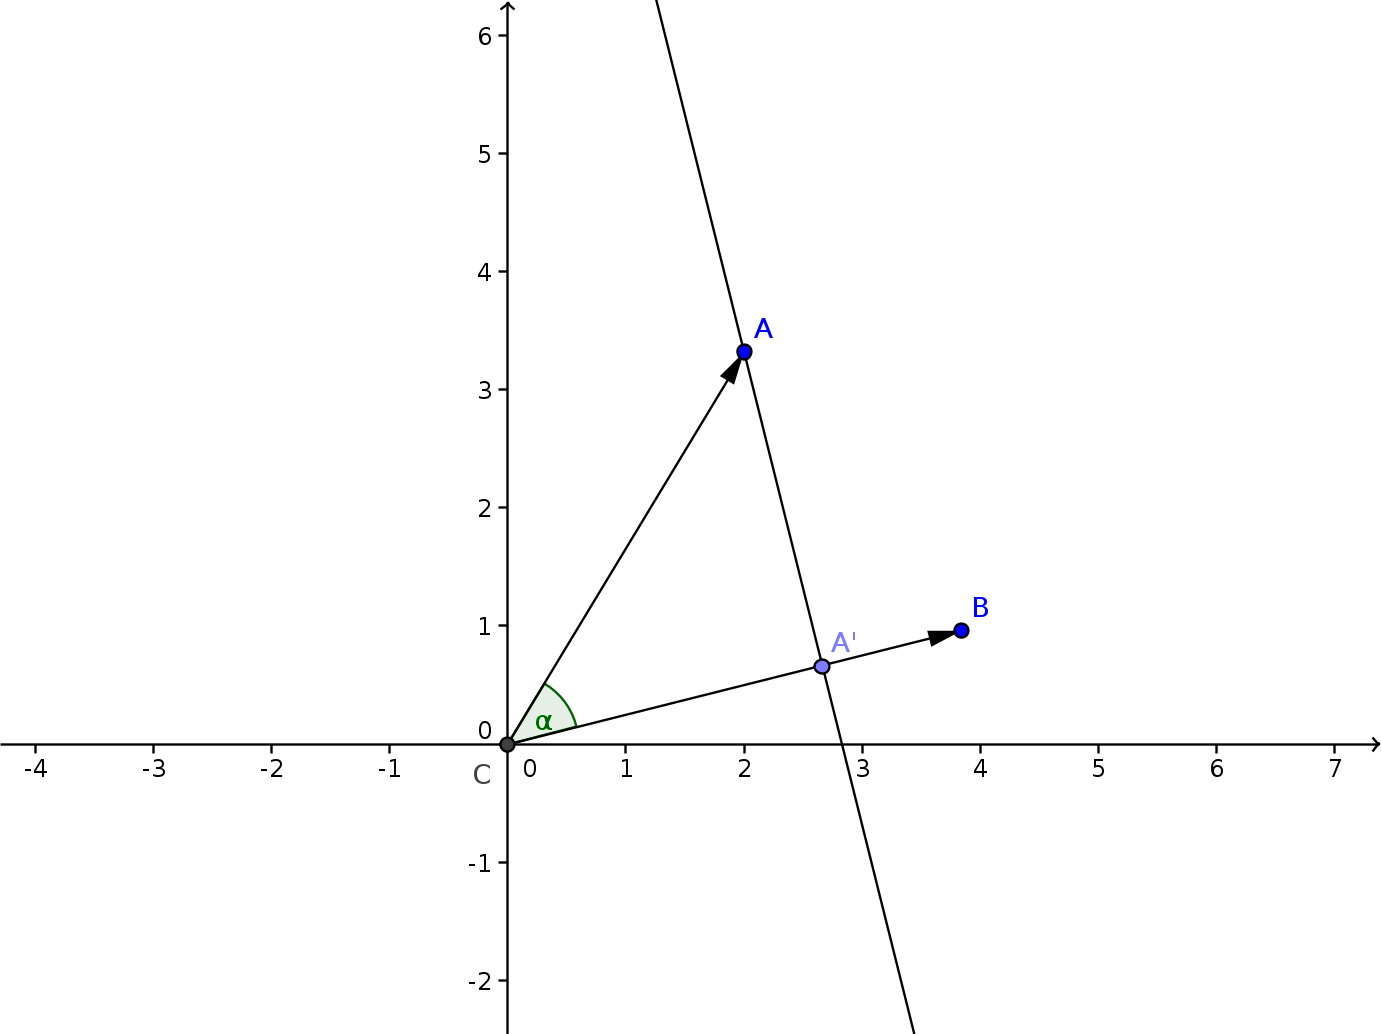
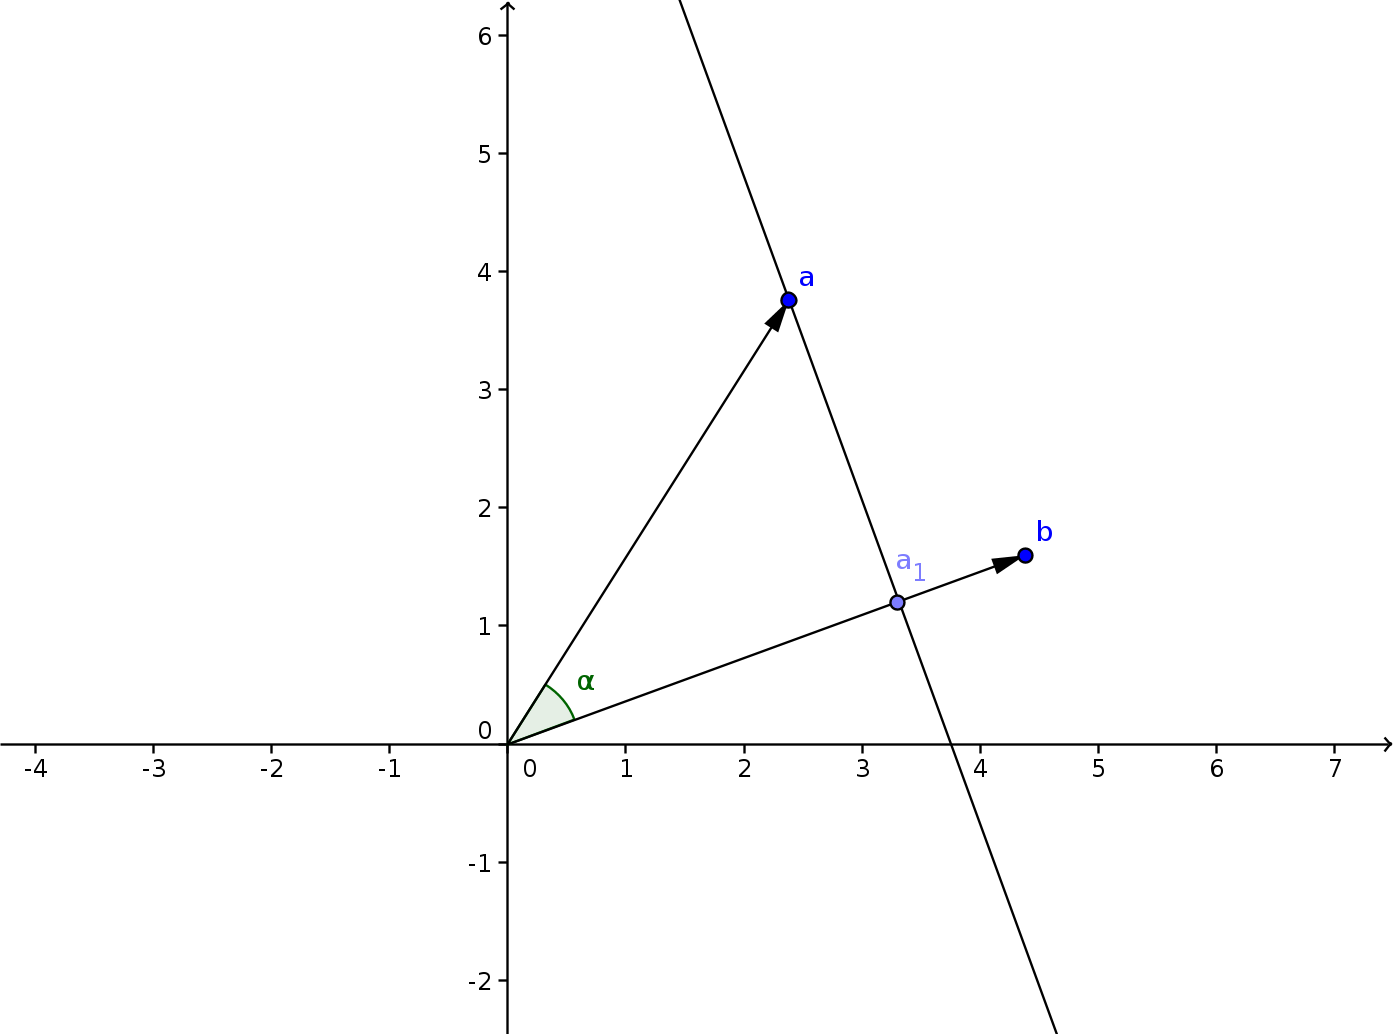
use a single notation style for everything

diff --git a/_math/3-vector-projection.md b/_math/3-vector-projection.md
@@ -16,57 +16,64 @@ Imagine for example a cart on a slope. Given a vector made from two points on th
 
 Or imagine for example a character jumping along an irregular polygon wall, when its collision circle collides with the wall, we can calculate the closest point to the wall by projecting the vector from one of the points on the wall to the circle's center onto the wall vector.
 
+Before we can project points onto lines, we first need to get a basic understanding of how a vector can be projected onto another vector
+
 ## Calculating the projection of a vector onto another vector
 
-If we look at the picture below, we see $$A'$$ which is the projection of the vector $$\overrightarrow{CA}$$ or $$\hat{a}$$ onto $$\overrightarrow{CB}$$ or $$\hat{b}$$. The goal is to calculate $$A'$$ in terms of $$\hat{a}$$ and $$\hat{b}$$.
+If we look at the picture below, we see $$\vec{a_1}$$ which is the projection of the vector $$\vec{a}$$ onto $$\vec{b}$$. The goal is to calculate $$\vec{a_1}$$ in terms of $$\vec{a}$$ and $$\vec{b}$$.
 
 ![proj_unrotated](/assets/proj_unrotated.png)
 
-To make this task easier, or at least more intuitive, we are going to rotate this setup. Let's arrange the vector $$\hat{b}$$ so that it is parallel with the x-axis.
+To make this task easier, or at least more intuitive, we are going to rotate this setup. Let's arrange the vector $$\vec{b}$$ so that it is parallel with the x-axis.
 
 ![proj_unscaled_equal](/assets/proj_unscaled_equal.png)
 
-If we look at point $$A'$$ now, we see that $$A'=(x, 0)$$ if $$A=(x,y)$$. Now let's scale our setup, so that $$A$$ is lying on the unit circle, a circle with as radius 1. In this case we see that $$x$$ is equal to the cosine of $$\alpha$$.
+If we look at the vector $$\vec{a}$$ now, we see that $$\vec{a_1}=\langle x, 0\rangle$$ if $$\vec{a}=\langle x,y\rangle$$. Now let's scale our setup, so that $$\vec{a}$$ is lying on the unit circle, a circle with as radius 1. In this case we see that $$x$$ is equal to the cosine of $$\alpha$$, which is the angle between $$\vec{a}$$ and $$\vec{b}$$.
 
 ![proj_cos](/assets/proj_cos.png)
 
 $$x=cos(\alpha)$$
 
-Of course in our second rotated but unscaled scenario, the vector $$\overrightarrow{CA}$$ doesn't necessarily have a length equal to 1. Both $$A$$ and $$A'$$ are scaled by the length of $$\overrightarrow{CA}$$. This means that to go back to the second scenario, have to multiply by the length of $$\overrightarrow{CA}$$ to correct the scale.
+Of course in our second rotated but unscaled scenario, the vector $$\vec{a}$$ doesn't necessarily have a length equal to 1. Both $$\vec{a}$$ and $$\vec{a_1}$$ are scaled by the length of $$\vec{a}$$. This means that to go back to the second scenario, have to multiply by the length of $$\vec{a}$$ to correct the scale.
 
-$$x=\lvert\overrightarrow{CA}\lvert cos(\alpha)=\lvert \hat{a}\lvert cos(\alpha)\quad(1)$$
+$$x=\lvert\vec{a}\lvert cos(\alpha)\quad(1)$$
 
-We don't want $$\alpha$$ in our equation, as we want a solution with just the two vectors $$\hat{a}$$ and $$\hat{b}$$. We can use the dot product, since the cosine of an angle is equal to the dot product of the vectors that form the angle if the vectors are normalized
+As we stated before, we don't want the angle $$\alpha$$ in our equation, as we want a solution with just the two vectors $$\vec{a}$$ and $$\vec{b}$$. We can use the dot product, since the cosine of an angle is equal to the dot product of the vectors that form the angle if the vectors are normalized
 
 $$cos(\alpha)=\hat{a}.\hat{b}$$
 
-A normalized vector is one whose length is 1, thus it is obtained by dividing a vector by its length. Doing this with vectors a and b gives
+A normalized vector is one whose length is 1, thus it is obtained by dividing a vector by its length. Doing this with vectors $$\vec{a}$$ and $$\vec{b}$$ gives
 
-$$cos(\alpha)=\frac{a.b}{\lvert a\lvert\lvert b\lvert}\quad(2)$$
+$$cos(\alpha)=\frac{\vec{a}.\vec{b}}{\lvert \vec{a}\lvert\lvert \vec{b}\lvert}\quad(2)$$
 
 Substituting the cosine in (1) by (2) gives
 
-$$x=\lvert a\lvert\frac{a.b}{\lvert a\lvert\lvert b\lvert}$$
+$$x=\lvert \vec{a}\lvert\frac{\vec{a}.\vec{b}}{\lvert \vec{a}\lvert\lvert \vec{b}\lvert}$$
 
-Or simplified, since we can ignore multiplying and dividing by the same factor $$\lvert a\lvert$$
+Or simplified, since we can ignore multiplying and dividing by the same factor $$\lvert \vec{a}\lvert$$
 
-$$x=\frac{a.b}{\lvert b\lvert}$$
+$$x=\frac{\vec{a}.\vec{b}}{\lvert \vec{b}\lvert}$$
 
-Our projection of point $$A$$ in scenario 2 is thus point $$A'=(x,0)$$ or $$A'=x*(1,0)$$. 
+Our projection of vector $$\vec{a}$$ in scenario 2 is was the vector $$\vec{a_1}=\langle x,0\rangle$$ or $$\vec{a_1}=x*\langle 1,0\rangle$$, substituting $$x$$ gives
 
-$$A'=\frac{a.b}{\lvert b\lvert}(1, 0)$$
+$$\vec{a_1}=\frac{\vec{a}.\vec{b}}{\lvert \vec{b}\lvert}(1, 0)$$
 
-We chose $$\overrightarrow{CB}$$ to be parallel with the x-axis to clearly see that x was equal to the scaled cosine. But in our original scenario $$\overrightarrow{CB}$$ is not parallel to the x-axis. the only difference with scenario one and two is that we rotated everything. This rotation kept the sizes of the vectors as well as the angle between them intact. The only difference that affects the outcome is that $$b$$ is rotated. As we can see,the projected point $$A'$$ always lies somewhere along $$b$$. In scenario two, $$A'$$ only lies along the x-axis because b is parallel with it. The vector $$(1,0)$$ is nothing more than the normalized vector $$\hat{b}$$. Thus our projection of a on b in scenario one is
+We chose $$\vec{b}$$ to be parallel with the x-axis to clearly see that $$x$$ was equal to the scaled cosine. But in our original scenario $$\vec{b}$$ is not parallel to the x-axis. the only difference with scenario one and two is that we rotated everything. This rotation kept the sizes of the vectors as well as the angle between them intact. The only difference that affects the outcome is that $$\vec{b}$$ is rotated. As we can see, the projected point $$\vec{a_1}$$ always lies somewhere along $$\vec{b}$$. In scenario two, $$\vec{a_1}$$ only lies along the x-axis because $$\vec{b}$$ is parallel with it. The vector $$\langle 1,0\rangle$$ is nothing more than the normalized vector $$\hat{b}$$. Thus our projection of $$\vec{a}$$ on $$\vec{b}$$ in scenario one is
 
-$$proj(a,b)=\frac{a.b}{\lvert b\lvert}\hat{b}$$
+$$proj(\vec{a},\vec{b})=\frac{\vec{a}.\vec{b}}{\lvert \vec{b}\lvert}\hat{b}$$
 
-Since $$\hat{b}$$ is equal to $$b$$ divided by it's length $$\lvert b\lvert$$ we can write
+Since $$\hat{b}$$ is equal to $$\vec{b}$$ divided by it's length $$\lvert \vec{b}\lvert$$ we can write
 
-$$proj(a,b)=\frac{a.b}{ {\lvert b\lvert}^2}b$$
+$$proj(\vec{a},\vec{b})=\frac{\vec{a}.\vec{b}}{ {\lvert \vec{b}\lvert}^2}\vec{b}$$
 
-And since the length $$\lvert b\lvert$$ is the square root of the dot product of b with itself or $$\lvert b\lvert=\sqrt{b.b}$$ we get
+And since the length $$\lvert \vec{b}\lvert$$ is the square root of the dot product of $$\vec{b}$$ with itself or $$\lvert \vec{b}\lvert=\sqrt{\vec{b}.\vec{b}}$$ we get
 
-$$proj(a,b)=\frac{a.b}{b.b}b$$
+$$proj(\vec{a},\vec{b})=\frac{\vec{a}.\vec{b}}{\vec{b}.\vec{b}}\vec{b}$$
 
-So the projection of $$a$$ on $$b$$ is the dot product of $$a$$ and $$b$$ divided by the dot product of $$b$$ with itself multiplied with b.
+So the projection of $$\vec{a}$$ on $$\vec{b}$$ is the dot product of $$\vec{a}$$ and $$\vec{b}$$ divided by the dot product of $$\vec{b}$$ with itself multiplied with $$\vec{b}$$.
 
+{% highlight lua %}
+function project(x1, y1, x2, y2)
+    return mul(dot(x1, y1, x2, y2) / dot(x2, y2, x2, y2), x2, y2)
+end
+{% endhighlight %}

diff --git a/_math/2-angles.md b/_math/2-angles.md
@@ -4,7 +4,8 @@ title: Angles
 math: true
 ---
 
-[Previous - Points and Vectors](1-points-and-vectors.html)
+| : ---- : |
+| [Previous - Points and Vectors](1-points-and-vectors.html) | [Next - Vector projection](3-vector-projection.html) |
 
 # [Math for game development](../) : Angles
 
@@ -28,12 +29,12 @@ Some game engines use angles from 0 to 360 degrees or from 0 to 1 percent instea
 ### Angle to vector
 Lets look at some vectors and the angles they represent.
 
-| vector  | angle              |
-| ------- | ------------------ |
-| (1, 0)  | 0 or $$\pi$$       |
-| (0, 1)  | $$\frac{\pi}{2}$$  |
-| (-1, 0) | $$\pi$$            |
-| (0, -1) | $$\frac{3\pi}{2}$$ |
+| vector                   | angle              |
+| ------------------------ | ------------------ |
+| $$\langle 1, 0\rangle$$  | 0 or $$\pi$$       |
+| $$\langle 0, 1\rangle$$  | $$\frac{\pi}{2}$$  |
+| $$\langle -1, 0\rangle$$ | $$\pi$$            |
+| $$\langle 0, -1\rangle$$ | $$\frac{3\pi}{2}$$ |
 
 Unfortunately, there is no easy way to go from an angle to a direction and back. We need trigonometric functions to do this, which are rather slow compared to normal operations. To go from an angle to a direction vector, we use cosine and sine. These give the x and y of the normalized vector representing the direction.
 
@@ -126,7 +127,7 @@ end
 ## Rotation
 
 ### Rotation around the origin
-We will start by trying to rotate the normalized vector $$\vec{b}$$ by $$\alpha$$ radians. If we have the normalized vector $$\vec{b}$$ pointing in the direction of $$\beta$$ radians, it can be written as $$\vec{b}=(cos(\beta), sin(\beta))$$. Similarly, we can write the angle $$\alpha$$ as the normalized vector $$\vec{a} =(cos(\alpha), sin(\alpha))$$ pointing in the direction of $$\alpha$$. As we saw before, for normalized vectors, the cosine of the angle between two vectors was equal to the dot product of the two vectors, while the sine of the angle between two vectors was equal to the cross product. The angle between the vectors $$\vec{a}$$ and $$\vec{b}$$ is equal to $$\alpha-\beta$$, so we can write
+We will start by trying to rotate the normalized vector $$\vec{b}$$ by $$\alpha$$ radians. If we have the normalized vector $$\hat{b}$$ pointing in the direction of $$\beta$$ radians, it can be written as $$\hat{b}=(cos(\beta), sin(\beta))$$. Similarly, we can write the angle $$\alpha$$ as the normalized vector $$\hat{a} =(cos(\alpha), sin(\alpha))$$ pointing in the direction of $$\alpha$$. As we saw before, for normalized vectors, the cosine of the angle between two vectors was equal to the dot product of the two vectors, while the sine of the angle between two vectors was equal to the cross product. The angle between the vectors $$\hat{a}$$ and $$\hat{b}$$ is equal to $$\alpha-\beta$$, so we can write
 
 $$cos(\alpha-\beta)=cos(\beta)*cos(\alpha)+sin(\beta)*sin(\alpha)$$
 
@@ -201,9 +202,9 @@ $$x'=x*cos(\alpha)-y*sin(\alpha)$$
 
 $$y'=x*sin(\alpha)+y*cos(\alpha)$$
 
-We can replace the sine and cosine of $$\alpha$$ with the normalized vector $$v$$
+We can replace the sine and cosine of $$\alpha$$ with the normalized vector $$\hat{v}$$
 
-$$v=\langle cos(\alpha), sin(\alpha)\rangle$$
+$$\hat{v}=\langle cos(\alpha), sin(\alpha)\rangle$$
 
 giving
 
@@ -242,4 +243,5 @@ function followTarget(x, y, tx, ty, points)
 end
 {% endhighlight %}
 
-[Previous - Points and Vectors](1-points-and-vectors.html)
+| : ---- : |
+| [Previous - Points and Vectors](1-points-and-vectors.html) | [Next - Vector projection](3-vector-projection.html) |

diff --git a/_math/1-points-and-vectors.md b/_math/1-points-and-vectors.md
@@ -19,7 +19,7 @@ At this stage we can't move or rotate yet, but we can scale. Scaling a point or 
 $$(x',y') = s(x, y)=(s*x, s*y)$$
 
 {% highlight lua %}
-function mul(x, y, s)
+function mul(s, x, y)
     return x * s, y *s
 end
 {% endhighlight %}
@@ -42,14 +42,17 @@ end
 {% endhighlight %}
 
 **The point at the arrow of the vector should always come first.**
-Notice that calculating the vector from for example $$(0, 0)$$ to $$(1, 4)$$ or from $$(4, 5)$$ to $$(5, 9)$$ both give the vector $$\langle 1, 4\rangle$$. Because to move from any of the two origins towards their destination you need to move in the same direction, crossing the same distance. Adding the vector to its origin gives us the destination.
+Notice that calculating the vector from for example $$(0, 0)$$ to $$(1, 4)$$ or from $$(4, 5)$$ to $$(5, 9)$$ both give the vector $$\langle 1, 4\rangle$$. Because to move from any of the two origins towards their destination you need to move in the same direction, crossing the same distance.
+
+Adding the vector to its origin gives us the destination.
 
 $$a + \vec{ab}=b$$
 
-A vector can move or translate a point by a given distance in a given direction.
 This is quite logical
 
 $$a + \vec{ab} = a + (b - a)=a + b - a=b$$
+
+A vector can move or translate a point by a given distance in a given direction.
 
 {% highlight lua %}
 function add(x1, y1, x2, y2)
@@ -61,7 +64,7 @@ Since a point and a vector are so similar, should we really distinguish them? Es
 
 $$(x, y) - (0, 0) = \langle x, y\rangle$$
 
-Yes and no. In code, we almost never really distinguish the two. In the lua code, we use a plain pair of floats x and y for both, and in an object oriented framework we would just use a point or vector class, not both.
+Yes and no. In code, we almost never really distinguish the two. In our functional lua code, we use a plain pair of floats x and y for both, and in an object oriented framework we would just use a point or vector class, not both.
 
 However there is an important difference between them. A point defines a coordinate, a vector defines a direction and distance. When we transform points and vectors to a different coordinate system, points are translated, rotated and scaled. Vectors however are only ever rotated and scaled, never translated.
 
@@ -218,5 +221,9 @@ function cw(x, y)
     return y, -x
 end
 {% endhighlight %}
+
+### A note on notation
+
+A point $$(x, y)$$ is written with round brackets, while I use square brackets to indicate that we're talking about a vector $$\langle x, y\rangle$$. When working with named vectors, I use an arrow $$\overrightarrow{a}$$ or in case of a unit vector a hat $$\hat{a}$$.
 
 [Next - Angles](2-angles.html)
